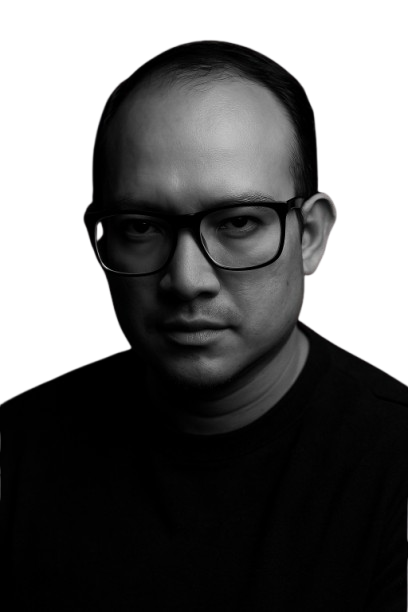
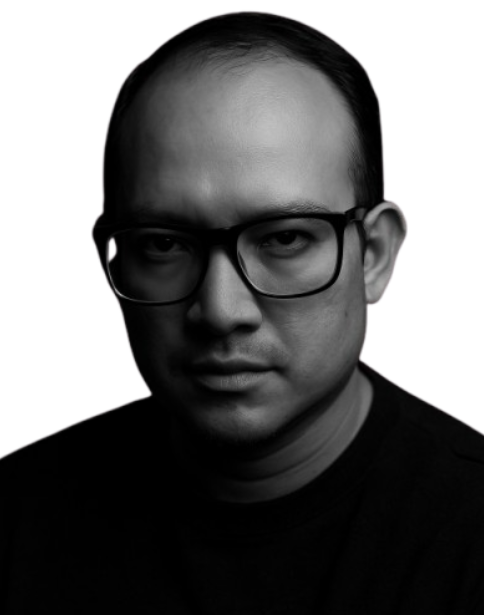
hero image is better looking after using canva

Changed region(s): [[0.0, 0.0, 1.0, 0.8072], [0.9706, 0.9935, 1.0, 1.0], [0.3529, 0.5278, 0.3824, 0.5588]]

diff --git a/styles.css b/styles.css
@@ -283,15 +283,12 @@ h1 {
 
     .hero-yellow {
         flex: 1;
-        background-color: var(--base-800);
-        border-radius: 30px;
-        padding: 0px 30px;
         display: flex;
         justify-content: center;
         align-items: flex-end;
 
         img {
-            margin-top: -30px;
+            margin-top: -20px;
             max-width: 420px;
             /*margin-bottom: -10px; */
             
